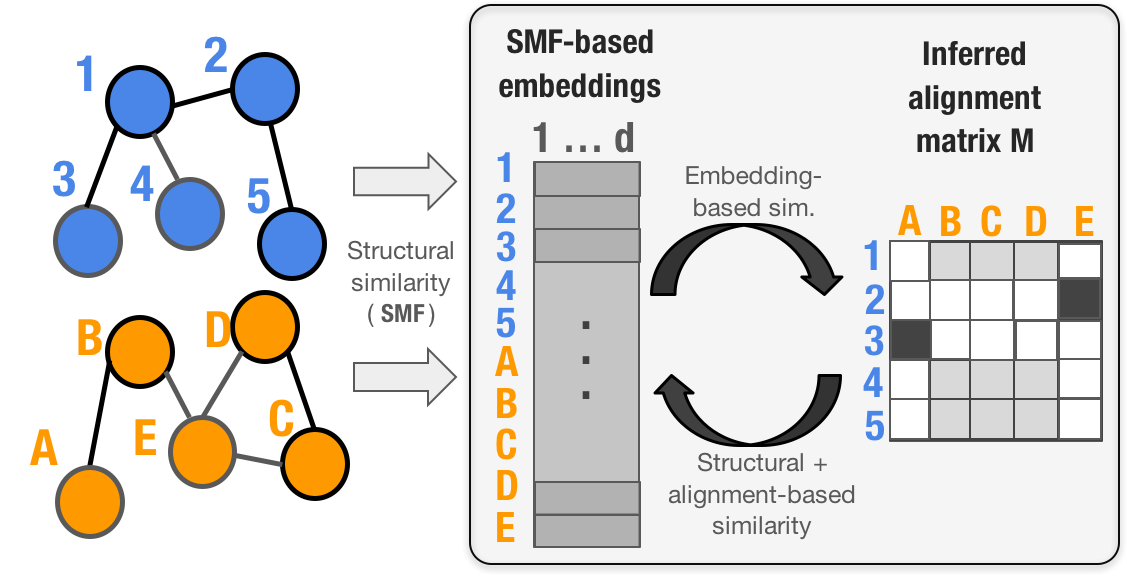
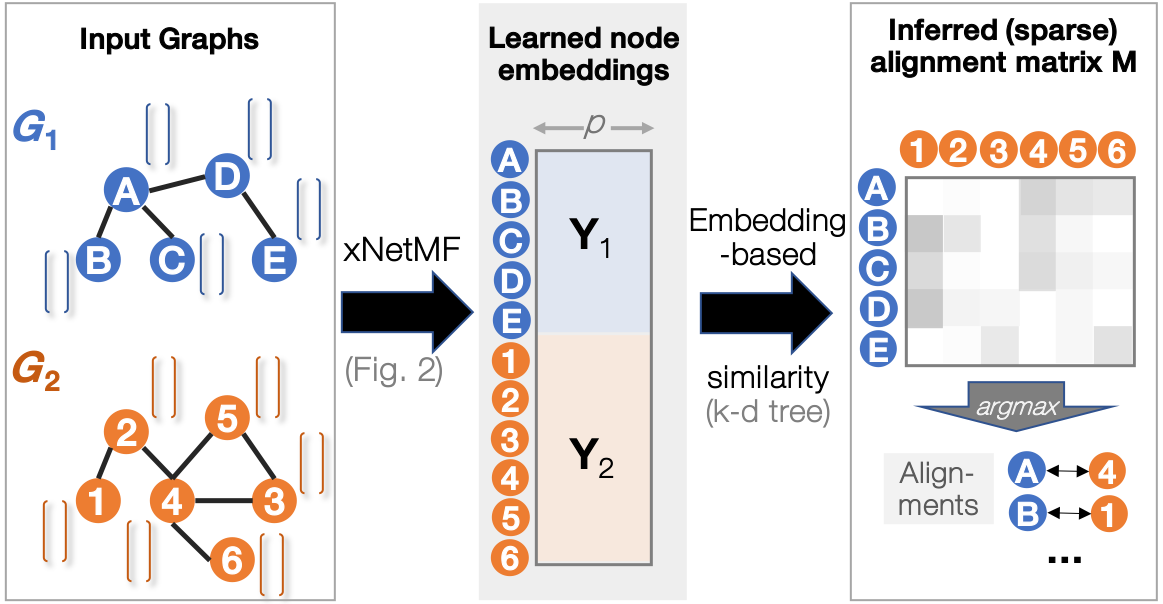
update REGAL info

diff --git a/index.html b/index.html
@@ -15,13 +15,12 @@ title: Mark Heimann
     I have an eclectic set of <a href="other.html">other interests</a> ranging from competitive (high-level) chess and (novice-level) powerlifting to music and amateur baking.  Sometimes I manage to combine them with my work; for instance, I am very interested in creating artificial intelligence technology for music analysis and performance, as well as the design and use of electronic effects especially for augmenting acoustic instruments.  Most of the time, though, they exist in the space left for them by life as a PhD student, but I'm always happy to talk about them.  
 </p>
 
-
 </div><!-- /.blurb -->
 
 <h2>Research Projects</h2>
 <div class="blurb">
 <ul>
-  <li><b>Multi-Network Representation Learning: </b> Methods to learn representations for nodes in graphs have exploded in popularity as techniques from deep learning have been shown to be extensible to the network setting and have led to state-of-the-art results on single graphs.  We show that most existing methods have weaknesses when applied to multiple graphs, because the criteria they optimize only make sense in a single graph.  We develop a new method for representation learning, Structural Matrix Factorization that a) preserves node similarities based on structural identity that can be compared in multiple graphs, and b) omits the variance-inducing context sampling with random walks that many competing methods use.   Our main framework, REGAL (REpresentation learning for Graph ALignment) iteratively alternates between learning alignment information by matching nodes with similar embeddings and learning embeddings that preserve similarities between nodes thought to align. 
+  <li><b>Multi-Network Representation Learning: </b> Most representation learning methods for nodes in graphs, despite their popularity for downstream graph mining tasks on a single graph, produce embeddings that are not comparable across multiple graphs, because the criteria they optimize only make sense in a single graph. We develop a new method for representation learning, Cross-network Matrix Factorization (xNetMF) that a) preserves node similarities based on structural identity and attribute information (if available) that can be compared in multiple graphs, and b) omits the variance-inducing context sampling with random walks that many competing methods use.  Leveraging techniques from low-rank matrix approximation allows our method to scale to extremely large networks.  We show the comparability of the xNetMF embeddings by using them for graph alignment: our framework REGAL (REpresentation learning for Graph ALignment) leverages data structures for efficiently similarity search to infer alignments from the similarity of the learned embeddings. 
 
   	<img src="assets/project_figs/REGAL.png" class = "project_figs">
 
